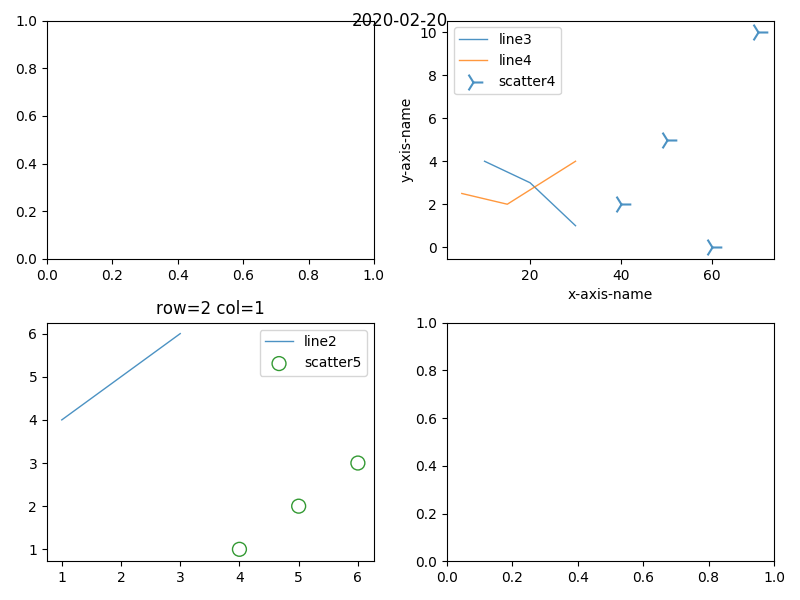
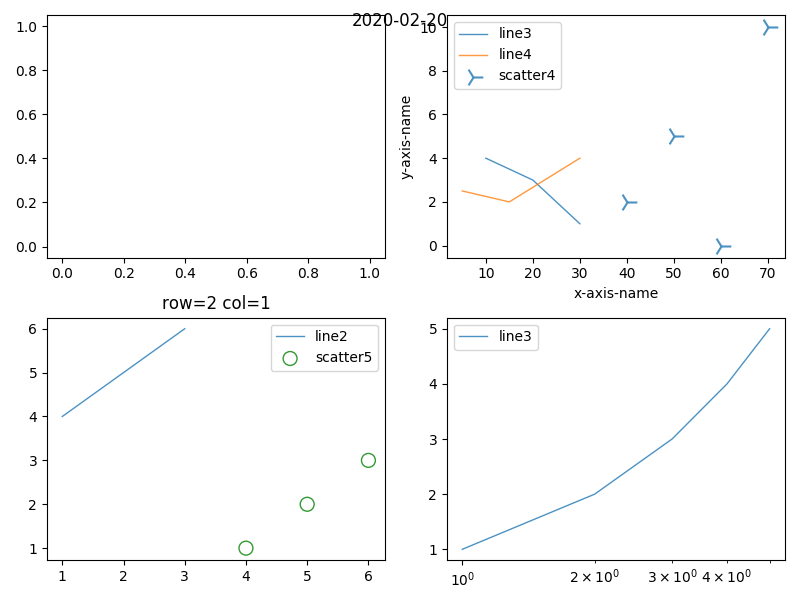
SAVEPOINT

diff --git a/vitro.cc b/vitro.cc
@@ -242,6 +242,8 @@ Matplot::Matplot(const Figure& fig) {
       if (ax.ylabel.size() > 0) {
         PyObject_CallMethod(pyax, "set_ylabel", "s", ax.ylabel.c_str());
       }
+      PyObject_CallMethod(pyax, "set_xscale", "s", ax.xscale.c_str());
+      PyObject_CallMethod(pyax, "set_yscale", "s", ax.yscale.c_str());
 
       for (const auto& line : ax.lines) {
         PyObject* x;
@@ -369,13 +371,12 @@ Matplot::Matplot(const Figure& fig) {
 
         auto plot = PyObject_GetAttrString(pyax, "hist");
         auto args = Py_BuildValue("(O)", x);
-        auto kwargs = Py_BuildValue("{s:O,s:O,s:d,s:i,s:O,s:O,s:s,s:O,s:O}",                       //
+        auto kwargs = Py_BuildValue("{s:O,s:O,s:d,s:i,s:O,s:s,s:O,s:O}",                           //
                                     "weights", (y == nullptr) ? Py_None : y,                       //
                                     "label", labels,                                               //
                                     "alpha", histogram.alpha,                                      //
                                     "bins", histogram.num_bins,                                    //
                                     "cumulative", histogram.cumulative ? Py_True : Py_False,       //
-                                    "log", histogram.log_scale_x ? Py_True : Py_False,             //
                                     "histtype", histogram.type.c_str(),                            //
                                     "density", histogram.normalize_unit_area ? Py_True : Py_False, //
                                     "stacked", histogram.stacked ? Py_True : Py_False);

diff --git a/example.cc b/example.cc
@@ -24,24 +24,32 @@ void plot2() {
   Figure fig(2, 2);
   fig.title = "2020-02-20";
 
-  auto& ax1 = fig.axes(2, 1);
-  ax1.title = "row=2 col=1";
-  ax1.line("line2", {1, 2, 3}, {4, 5, 6});
   {
-    auto& scatter = ax1.scatter("scatter5", {4, 5, 6}, {1, 2, 3});
+    auto& ax = fig.axes(2, 1);
+    ax.title = "row=2 col=1";
+    ax.line("line2", {1, 2, 3}, {4, 5, 6});
+    auto& scatter = ax.scatter("scatter5", {4, 5, 6}, {1, 2, 3});
     scatter.marker_size = 100;
     scatter.color = "green";
     scatter.marker_face_color = "none";
   }
 
-  auto& ax2 = fig.axes(1, 2);
-  ax2.xlabel = "x-axis-name";
-  ax2.ylabel = "y-axis-name";
-  ax2.line("line3", {10, 20, 30}, {4, 3, 1});
-  ax2.line("line4", {30, 15, 5}, {4, 2, 2.5});
-  auto& scatter = ax2.scatter("scatter4", {40, 50, 60, 70}, {2, 5, 0, 10});
-  scatter.marker_type = '4';
-  scatter.marker_size = 200;
+  {
+    auto& ax = fig.axes(1, 2);
+    ax.xlabel = "x-axis-name";
+    ax.ylabel = "y-axis-name";
+    ax.line("line3", {10, 20, 30}, {4, 3, 1});
+    ax.line("line4", {30, 15, 5}, {4, 2, 2.5});
+    auto& scatter = ax.scatter("scatter4", {40, 50, 60, 70}, {2, 5, 0, 10});
+    scatter.marker_type = '4';
+    scatter.marker_size = 200;
+  }
+
+  {
+    auto& ax = fig.axes(2, 2);
+    ax.line("log-scale-x", {1, 2, 3, 4, 5}, {1, 2, 3, 4, 5});
+    ax.xscale = "log";
+  }
 
   Matplot matplot(fig);
   matplot.save("plot2.png");

diff --git a/vitro.h b/vitro.h
@@ -87,9 +87,7 @@ public:
   double alpha = 0.3;
   bool stacked = false;
   bool cumulative = false;
-  bool log_scale_x = false;
-  std::string type = "stepfilled";
-  // std::string type = "step"; // or "stepfilled"
+  std::string type = "stepfilled"; //  or "step"
   bool normalize_unit_area = false;
 
   std::vector<std::vector<double>> xs_list;
@@ -129,6 +127,8 @@ public:
   std::string title{};
   std::string xlabel;
   std::string ylabel;
+  std::string xscale = "linear"; // "log", "logit", ..
+  std::string yscale = "linear";
   bool is_x_nanotimestamps = false; // if true, x values are interprested as unix epochs in nanoseconds
   std::vector<Line> lines;
   std::vector<Scatter> scatters;
